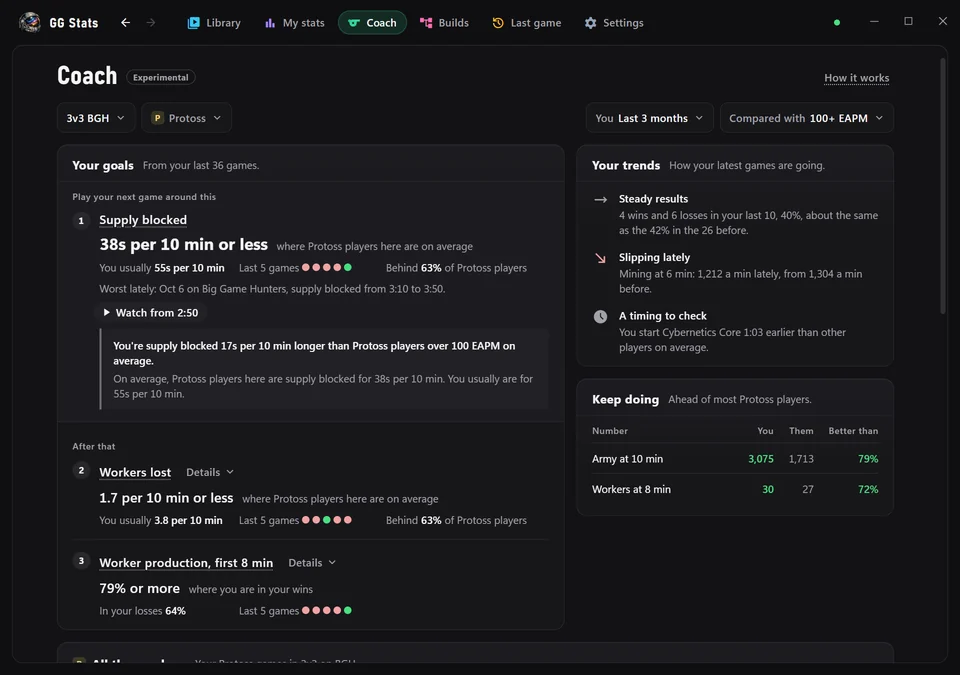
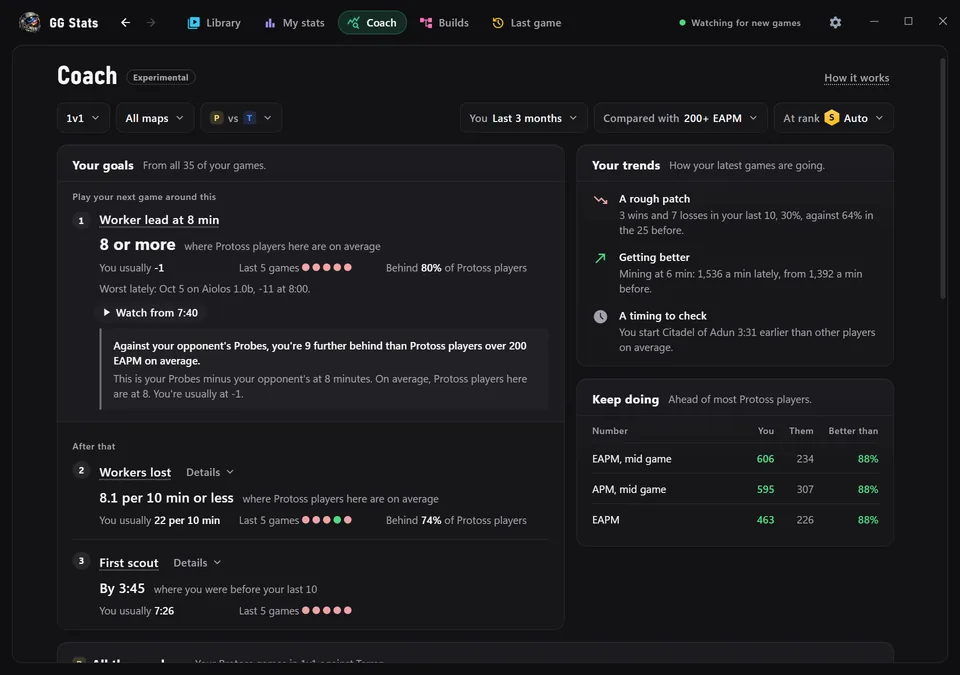
Show an S rank player's 1v1 coach and all its numbers on the site.

diff --git a/site/index.html b/site/index.html
@@ -384,7 +384,7 @@
         white-space: nowrap;
       }
 
-      /* Two rows of three tabs on a phone. */
+      /* Three tabs to a row on a phone. */
       @media (max-width: 480px) {
         .tab {
           gap: 5px;
@@ -460,7 +460,17 @@
           fetchpriority="low"
           decoding="async"
           aria-hidden="true"
-          alt="Coach: goals for your next game from your recent games, next to other players of your race." />
+          alt="Coach for an S rank Protoss player in PvT: goals for the next game, how their latest games are going and what to keep doing." />
+        <img
+          src="shots/numbers.webp"
+          srcset="shots/numbers-960.webp 960w, shots/numbers.webp 1920w"
+          sizes="(min-width: 1072px) 1040px, calc(100vw - 32px)"
+          width="1920"
+          height="1350"
+          fetchpriority="low"
+          decoding="async"
+          aria-hidden="true"
+          alt="All the numbers: economy, growth, fights and speed from their PvT games, next to other S rank Protoss players." />
         <img
           src="shots/builds.webp"
           srcset="shots/builds-960.webp 960w, shots/builds.webp 1920w"
@@ -540,6 +550,20 @@
               d="m89-412-49-36 193-310 125 146 165-268 125 186 143-226 48 35-190 301-124-184-159 258-125-146L89-412Zm494 192q48 0 82.5-33.5T700-335q0-49-34-83t-83-34q-48 0-81.5 34.5T468-335q0 48 33.5 81.5T583-220ZM797-80 685-192q-22 15-47.5 23.5T583-160q-73 0-124-51t-51-124q0-73 51-125t124-52q74 0 125.5 51.5T760-335q0 29-8.5 54.5T727-233l112 111-42 42Z" />
           </svg>
           Coach
+        </button>
+        <button
+          class="tab coach"
+          id="tab-numbers"
+          role="tab"
+          aria-selected="false"
+          aria-controls="screens"
+          tabindex="-1"
+          type="button">
+          <svg viewBox="0 -960 960 960" aria-hidden="true">
+            <path
+              d="M450-340H120v160q0 24.75 17.63 42.37Q155.25-120 180-120h270v-220Zm60 0v220h270q24.75 0 42.38-17.63Q840-155.25 840-180v-160H510Zm-60-60v-220H120v220h330Zm60 0h330v-220H510v220ZM120-680h720v-100q0-24.75-17.62-42.38Q804.75-840 780-840H180q-24.75 0-42.37 17.62Q120-804.75 120-780v100Z" />
+          </svg>
+          All the numbers
         </button>
         <button
           class="tab builds"
